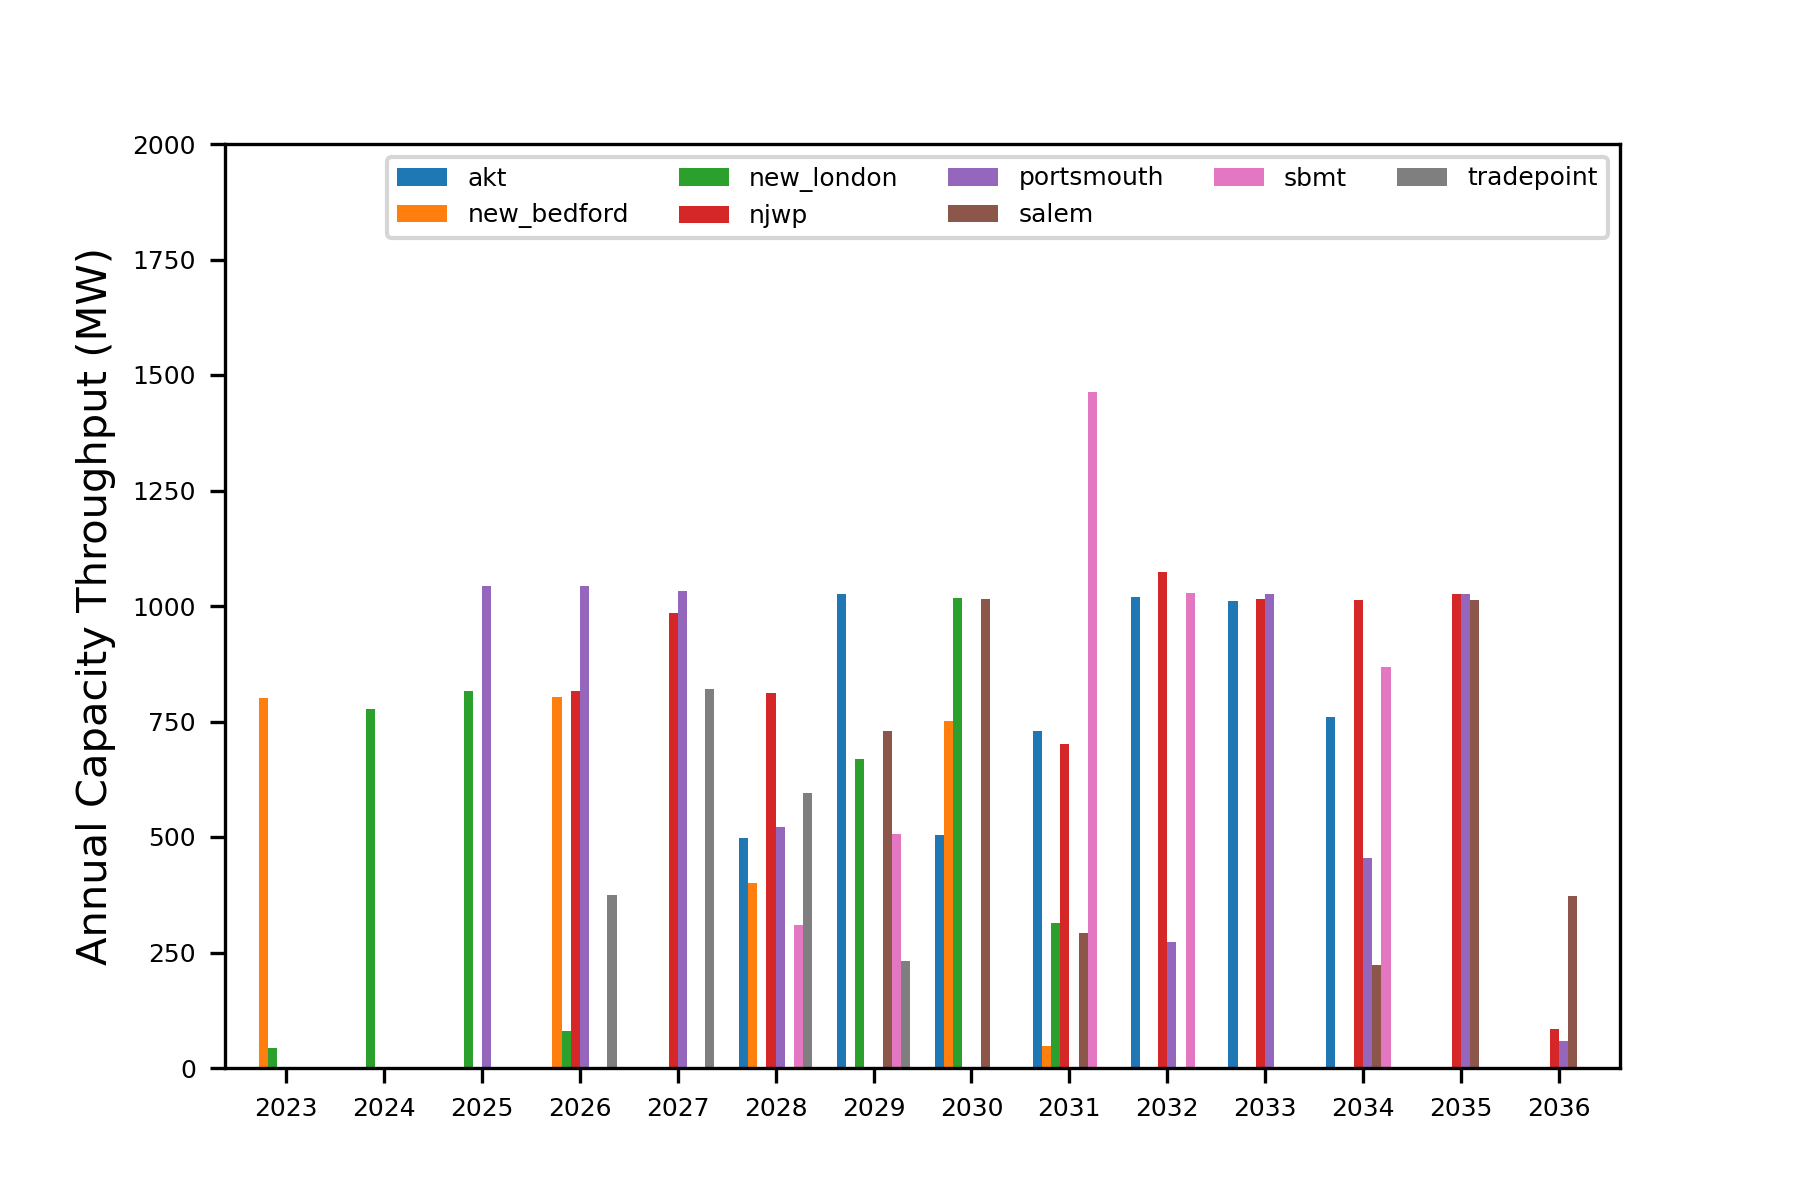
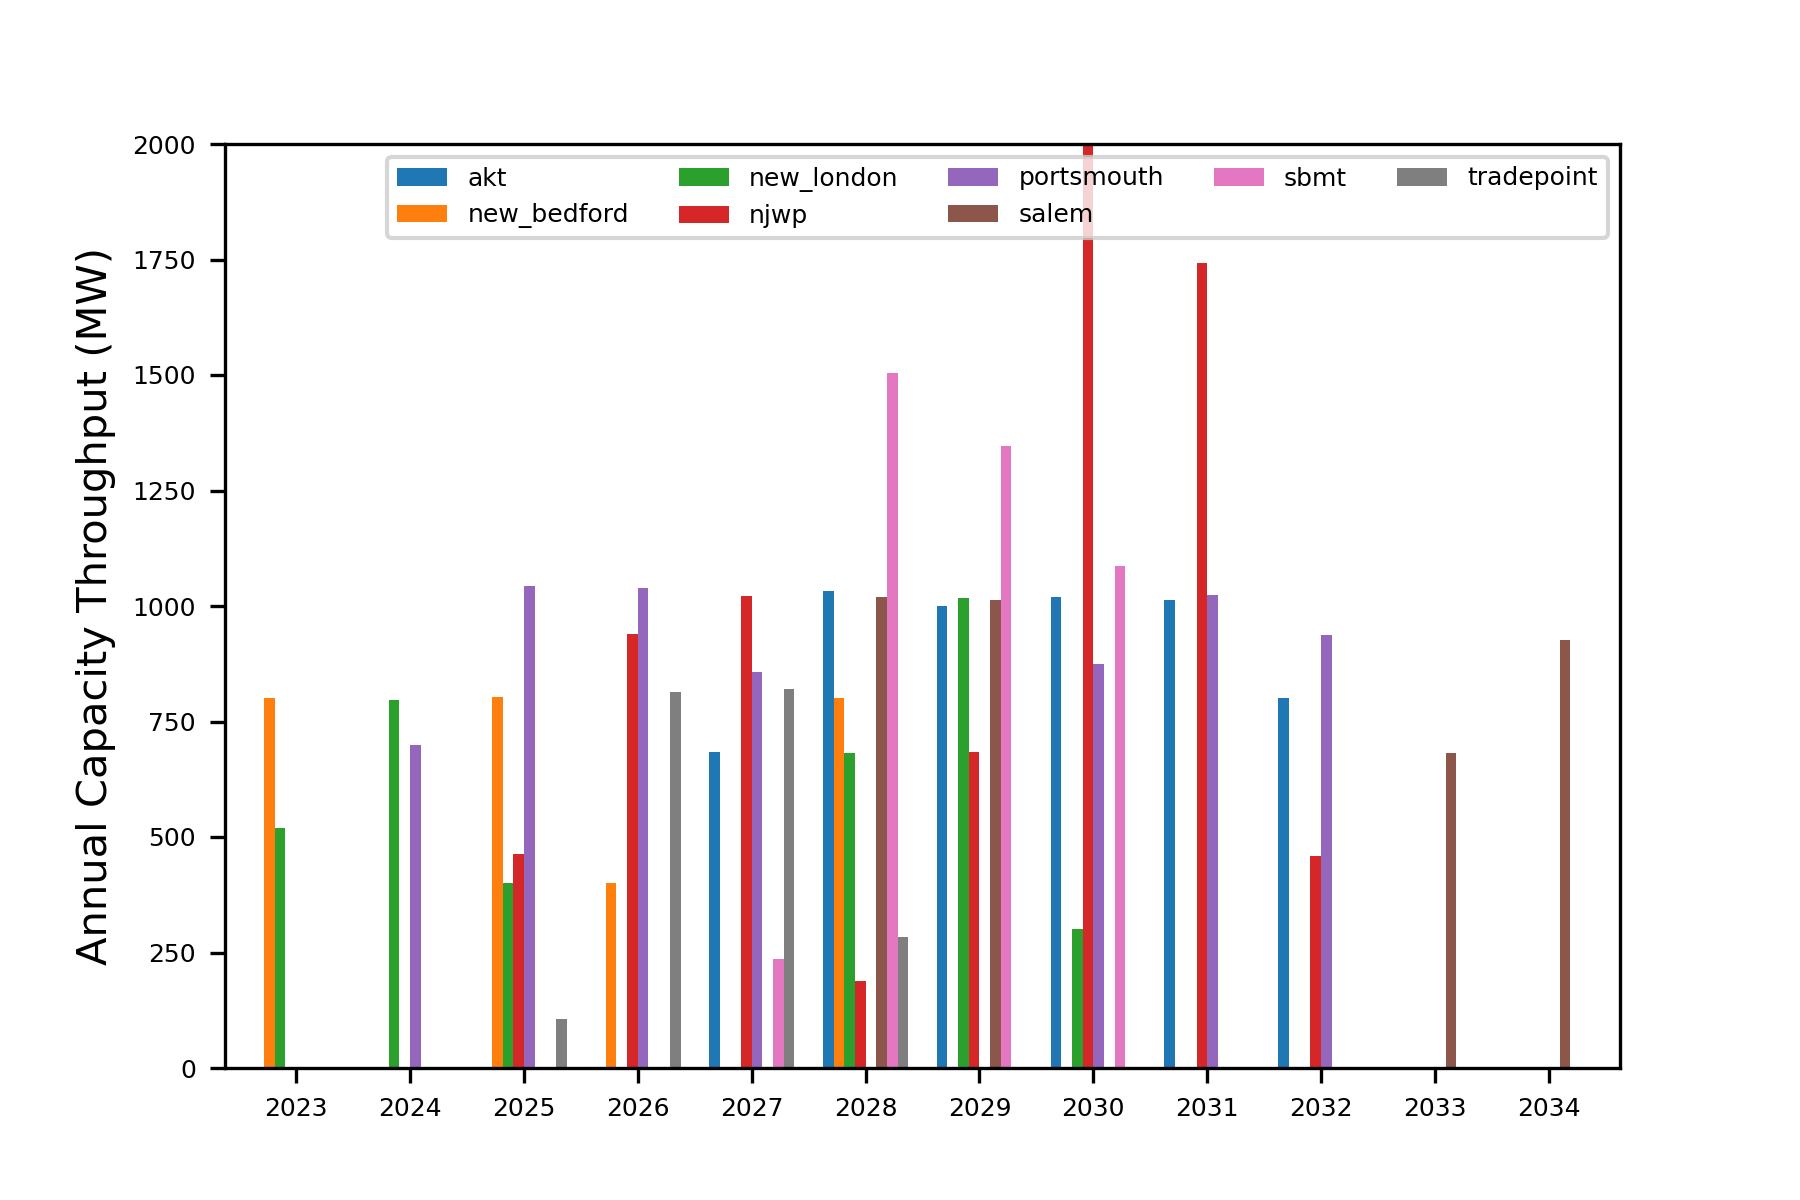
Defined sceanrios for HLV epxansion

Changed region(s): [[0.1556, 0.1233, 0.9022, 0.9558], [0.1244, 0.5858, 0.1556, 0.8942]]

diff --git a/helpers.py b/helpers.py
@@ -29,7 +29,21 @@ initial_allocations = {
     ]
     },
 'add_wtiv': {
-    "wtiv": [('example_wtiv', 1), ('example_heavy_lift_vessel', 5)],
+    "wtiv": [('example_wtiv', 2), ('example_heavy_lift_vessel', 5)],
+    "feeder": ('example_feeder', 4),
+    "port": [
+        ('new_bedford', 1),
+        ('new_london', 1),
+        ('njwp', 1),
+        ('sbmt', 1),
+        ('portsmouth', 1),
+        ('salem', 1),
+        ('tradepoint', 1),
+        ('akt', 1)
+    ]
+    },
+'add_wtiv_hlv': {
+    "wtiv": [('example_wtiv', 2), ('example_heavy_lift_vessel', 2)],
     "feeder": ('example_feeder', 4),
     "port": [
         ('new_bedford', 1),
@@ -66,15 +80,16 @@ future_allocations = {
     ['wtiv', 'example_wtiv', [dt.datetime(2025, 1, 1)]],
     ['wtiv', 'example_wtiv', [dt.datetime(2026, 1, 1)]],
     ['wtiv', 'example_wtiv', [dt.datetime(2028, 1, 1)]],
-    ['wtiv', 'example_wtiv', [dt.datetime(2028, 1, 1)]],
-    ['wtiv', 'example_wtiv', [dt.datetime(2029, 1, 1)]],
     ['port', 'njwp', [dt.datetime(2028, 1, 1)]],
     ],
 'add_wtiv_hlv_ports': [
     ['wtiv', 'example_wtiv', [dt.datetime(2025, 1, 1)]],
     ['wtiv', 'example_wtiv', [dt.datetime(2026, 1, 1)]],
-    # ['wtiv', 'example_wtiv', [dt.datetime(2028, 1, 1)]],
-    # ['wtiv', 'example_heavy_lift_vessel', [dt.datetime(2027, 1, 1)]],
+    ['wtiv', 'example_wtiv', [dt.datetime(2028, 1, 1)]],
+    ['wtiv', 'example_heavy_lift_vessel', [dt.datetime(2027, 1, 1)]],
+    ['wtiv', 'example_heavy_lift_vessel', [dt.datetime(2027, 1, 1)]],
+    ['wtiv', 'example_heavy_lift_vessel', [dt.datetime(2027, 1, 1)]],
+    # # ['wtiv', 'example_heavy_lift_vessel', [dt.datetime(2029, 1, 1)]],
     # ['wtiv', 'example_wtiv', [dt.datetime(2028, 1, 1)]],
     # ['wtiv', 'example_wtiv', [dt.datetime(2029, 1, 1)]],
     ['port', 'njwp', [dt.datetime(2028, 1, 1)]],
@@ -98,7 +113,7 @@ plot_names_map = {
 'add_ports': 'Add ports',
 'add_wtiv_ports': 'Add WTIVS \nand ports',
 'add_wtiv_eur_ports': 'Add US and Eur WTIVs \n and ports',
-'add_wtiv_eur_hlv_ports': 'Add US and Eur WTIVs,  \n US HLVs, and ports',
+'add_hlv_wtiv_eur_ports': 'Add US and Eur WTIVs,  \n US HLVs, and ports',
 'reduce_ports': 'Reduced ports',
 'add_ports_fast': 'Add ports \n(early constr.)',
 'add_wtiv_ports_fast ': 'Add WTIVS \nand ports (early constr.)',

diff --git a/run_analysis.py b/run_analysis.py
@@ -48,10 +48,14 @@ scenarios = {
      #              'initial': ia['base'],
      #              'future': fa['add_wtiv_ports'],
      #              'invest': [inv['high_wtiv'], inv['add_ports_fast']],},
-     'add_wtiv_eur_hlv_ports': {'pipeline': ip['add_ports'],
+     'add_wtiv_eur_ports': {'pipeline': ip['add_ports'],
                   'initial': ia['add_wtiv'],
-                  'future': fa['add_wtiv_hlv_ports'],
+                  'future': fa['add_wtiv_ports'],
                   'invest': [inv['high_wtiv'], inv['add_port']],},
+      'add_hlv_wtiv_eur_ports': {'pipeline': ip['add_ports'],
+                   'initial': ia['add_wtiv_hlv'],
+                   'future': fa['add_wtiv_hlv_ports'],
+                   'invest': [inv['high_wtiv'], inv['add_port']],},
 }
 invest_year_base = [dt.datetime(yi, 1, 1) for yi in inv['year']]
 cumsum_plot = True
@@ -83,7 +87,7 @@ if __name__ == '__main__':
         num_wtiv = allocations['wtiv'][1]
         num_port = len(allocations['port'])
 
-        manager = GlobalManager(pipeline.configs, allocations, library_path=library_path)
+        manager = GlobalManager(pipeline.configs, allocations, library_path=library_path, weather=weather)
 
         new_wtiv = [1 for fr in future_resources if 'wtiv' in fr]
         new_ports = [1 for fr in future_resources if 'port' in fr]
